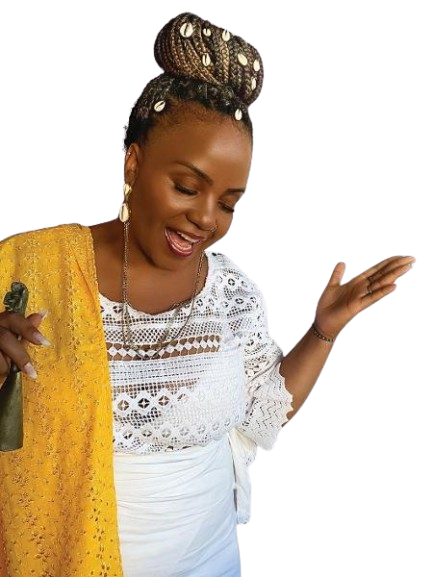
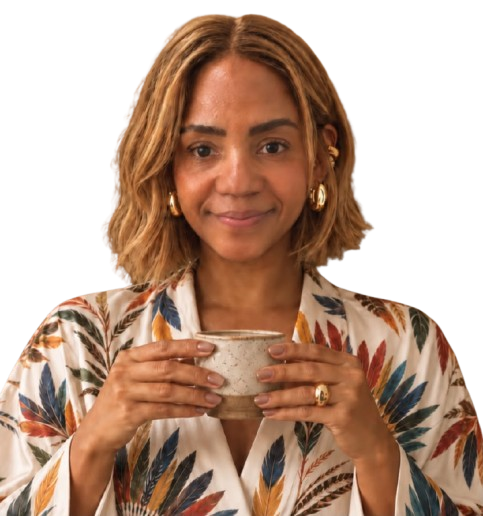
feat: atualiza foto de YéYè e otimizações de layout responsivo mobile

diff --git a/client/src/pages/Home.tsx b/client/src/pages/Home.tsx
@@ -453,14 +453,16 @@ export default function Home() {
                       src="./assets/images/yeye.png" 
                       alt="YéYè - Criadora do IT’S OFF.LINE" 
                       className="w-24 sm:w-28 md:w-32 h-auto max-h-36 object-contain drop-shadow-md hover:scale-105 transition-transform duration-300"
+                      loading="eager"
+                      decoding="async"
                     />
-                    <div className="absolute -bottom-1 sm:-bottom-2 bg-pink-600 text-white text-[10px] font-bold uppercase tracking-wider px-2.5 py-0.5 rounded-full shadow-sm">
-                      YéYè ✦
+                    <div className="absolute -bottom-1 sm:-bottom-2 bg-pink-600 text-white text-[10px] font-bold uppercase tracking-wider px-2.5 py-0.5 rounded-full shadow-sm whitespace-nowrap">
+                      YÉYÈ ✦
                     </div>
                   </div>
                   <div className="flex-1 text-center sm:text-left">
                     <p className="text-xs font-bold uppercase tracking-wider mb-1 text-pink-900 flex items-center justify-center sm:justify-start gap-1.5">
-                      <Sparkles size={14} className="text-pink-600" /> Exclusividade
+                      <Sparkles size={14} className="text-pink-600" /> EXCLUSIVIDADE
                     </p>
                     <p className="text-sm sm:text-base text-gray-800 leading-relaxed font-normal">
                       Cada encontro é criado por mim, <strong className="text-pink-950 font-semibold">YéYè</strong>, e por gente que sabe muito bem o que está fazendo.

diff --git a/client/src/index.css b/client/src/index.css
@@ -807,9 +807,19 @@ h1 em::after {
   }
 }
 
-@media (max-width: 520px) {
+@media (max-width: 600px) {
   .manifesto-grid, .step-grid, .gallery-scrapbook-mural {
     grid-template-columns: 1fr;
+  }
+  .scatter-polaroid {
+    width: 100% !important;
+    min-width: unset !important;
+    max-width: 300px !important;
+    margin: 0 auto;
+  }
+  .gallery-scatter-table {
+    gap: 24px 16px;
+    padding: 10px 0;
   }
   .experience-scrap-card {
     grid-template-columns: 1fr;
